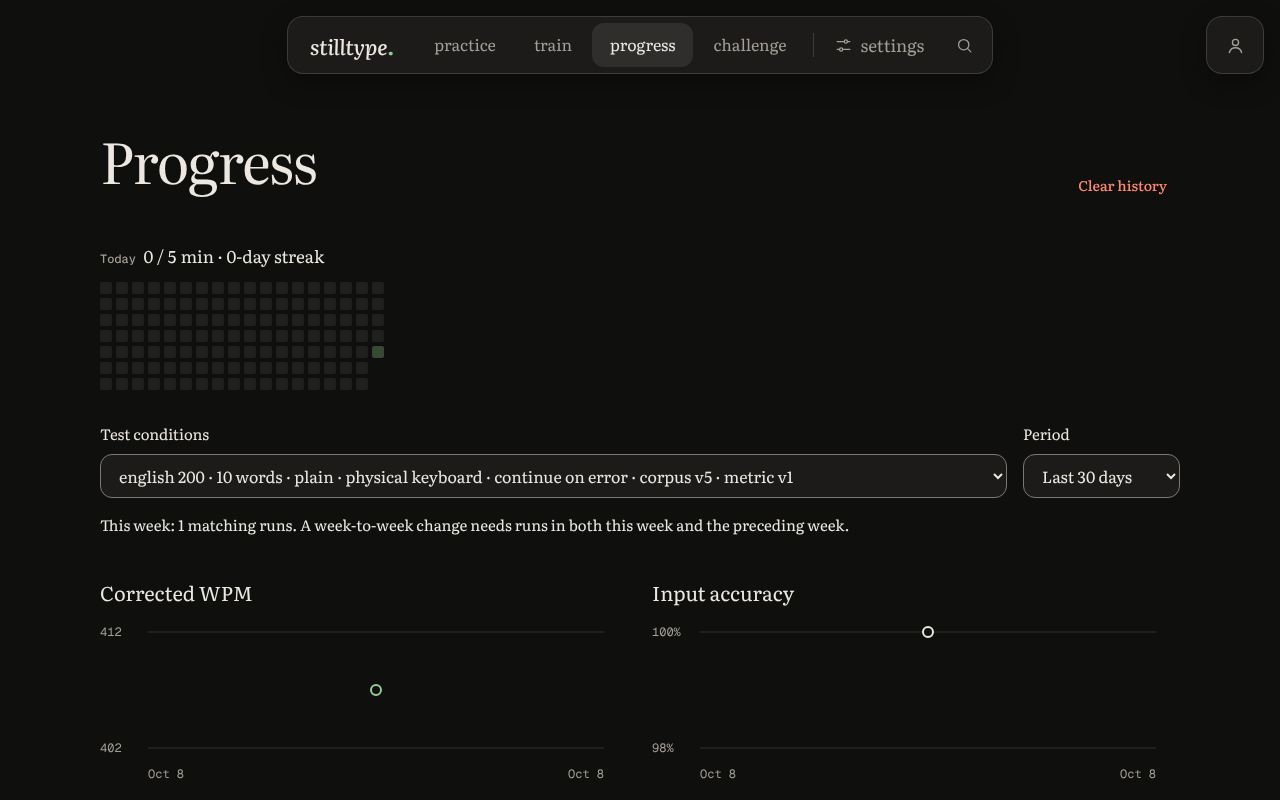
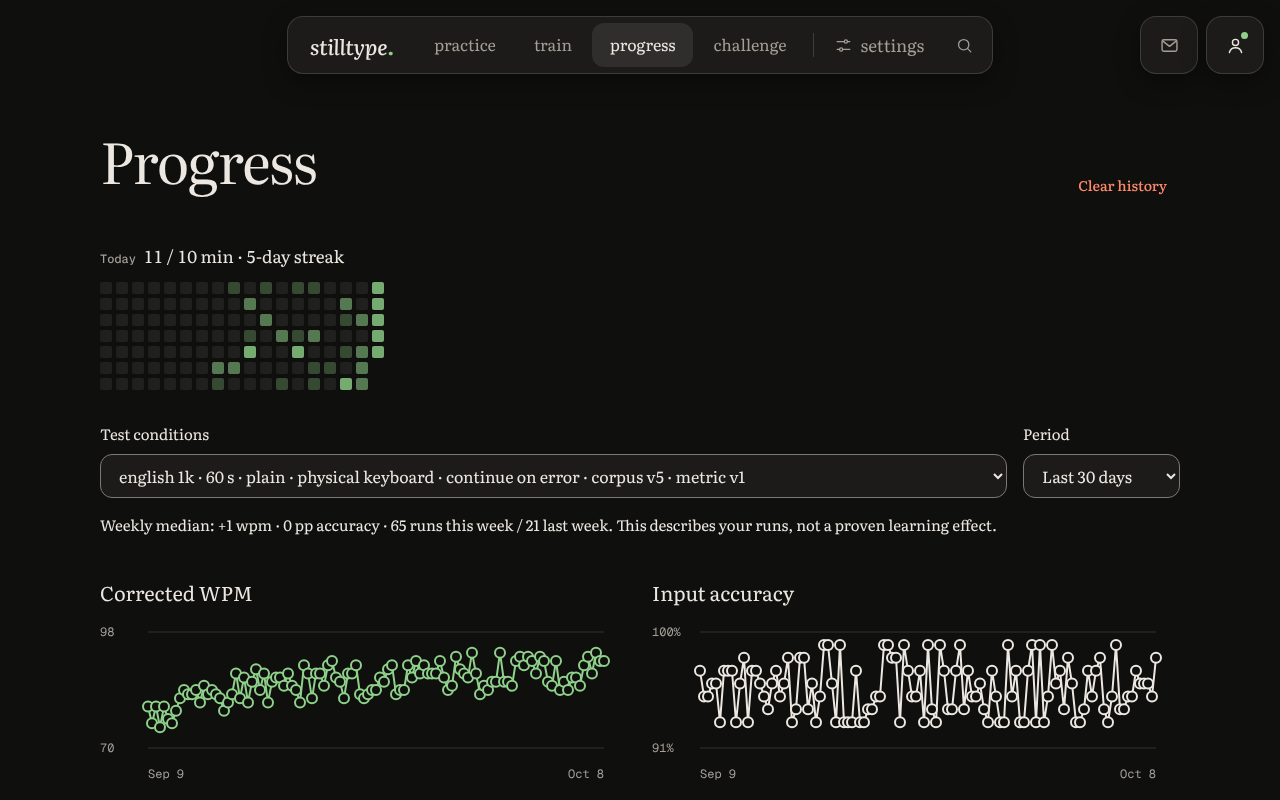
Seed realistic history for the daily-goal screenshots
Claude-Session: https://claude.ai/code/session_01SaBNo9RHRaTR8cCUjK1iLD

diff --git a/e2e/daily-goal-streak.spec.js b/e2e/daily-goal-streak.spec.js
@@ -1,4 +1,5 @@
-import { test, expect, openApp, chooseWords, completePassage, openView } from './fixtures.js';
+import { CORPUS_VERSION, METRIC_VERSION } from '../src/typing.js';
+import { test, expect, openApp, chooseWords, completePassage, openView, signInWithEmail } from './fixtures.js';
 
 test('daily goal line and practice calendar render on Progress', async ({ page }) => {
   await page.setViewportSize({ width: 1280, height: 800 });
@@ -16,6 +17,49 @@ test('daily goal line and practice calendar render on Progress', async ({ page }
   const today = days.last();
   await expect(today).toHaveAttribute('data-level', '1');
   await expect(today).toHaveAttribute('title', /^[A-Z][a-z]{2} \d{1,2}: \d+ min$/);
+});
+
+// Ten weeks of plausible practice for a signed-in profile: 60s timed tests drifting from the low 60s
+// toward the low 90s, a few long days past the 10-minute goal, and the last five days all meeting it.
+function seededHistory(now = new Date()) {
+  let seed = 7;
+  const random = () => { seed = (seed * 16807) % 2147483647; return (seed - 1) / 2147483646; };
+  const conditions = { mode: 'time', count: null, duration: 60, punctuation: false, quoteLength: null,
+    difficulty: null, wordList: '1k', inputClass: 'physical-keyboard', correctionPolicy: 'relaxed',
+    language: 'en', corpus: CORPUS_VERSION, metricVersion: METRIC_VERSION };
+  const plan = new Map([[0, 11], [1, 12], [2, 10.5], [3, 14], [4, 11], [9, 6], [12, 11], [16, 3]]);
+  for (let back = 5; back < 70; back += 1) if (!plan.has(back) && random() < 0.42) plan.set(back, 1 + random() * (random() < 0.15 ? 14 : 7));
+  const runs = [];
+  for (const [back, minutes] of [...plan].sort((a, b) => b[0] - a[0])) {
+    const day = new Date(now.getFullYear(), now.getMonth(), now.getDate() - back, 19, 5);
+    let left = minutes * 60;
+    while (left > 15) {
+      const seconds = Math.min(left, [30, 45, 60, 60, 90, 120][Math.floor(random() * 6)]);
+      const wpm = Math.round(Math.min(95, Math.max(60, 64 + (70 - back) * 0.36 + (random() - 0.5) * 10)));
+      day.setSeconds(day.getSeconds() + seconds + 20 + Math.floor(random() * 90));
+      const id = `seed-${runs.length}`;
+      runs.push({ id, at: day.toISOString(), kind: 'test', status: 'complete', conditions, textId: id, fresh: true,
+        interrupted: false, score: { wpm, accuracy: 93 + Math.floor(random() * 7) }, elapsedMs: seconds * 1000,
+        errors: Math.floor(random() * 6), target: null, challengeDate: null, patterns: [] });
+      left -= seconds;
+    }
+  }
+  return runs;
+}
+
+test('Progress screenshots with ten weeks of seeded history', async ({ page, supabase }) => {
+  await page.setViewportSize({ width: 1280, height: 800 });
+  const user = supabase.addUser('streak@stilltype.test');
+  const runs = seededHistory();
+  supabase.profiles.set(user.id, { data: { version: 2, preferences: { dailyGoal: 10 }, attempts: [], runs, loops: [],
+    seenTextIds: runs.map((r) => r.textId), bests: {}, updatedAt: runs.at(-1).at } });
+  await openApp(page);
+  await signInWithEmail(page, user.email);
+  await page.locator('.preferences summary').click();
+  await page.locator('#daily-goal').selectOption('10');
+  await page.keyboard.press('Escape');
+  await openView(page, 'Progress');
+  await expect(page.locator('#goal-line')).toHaveText(/^Today \d+ \/ 10 min · 5-day streak$/);
 
   for (const theme of ['dark', 'light']) {
     await page.evaluate((t) => { document.documentElement.dataset.theme = t; }, theme);
